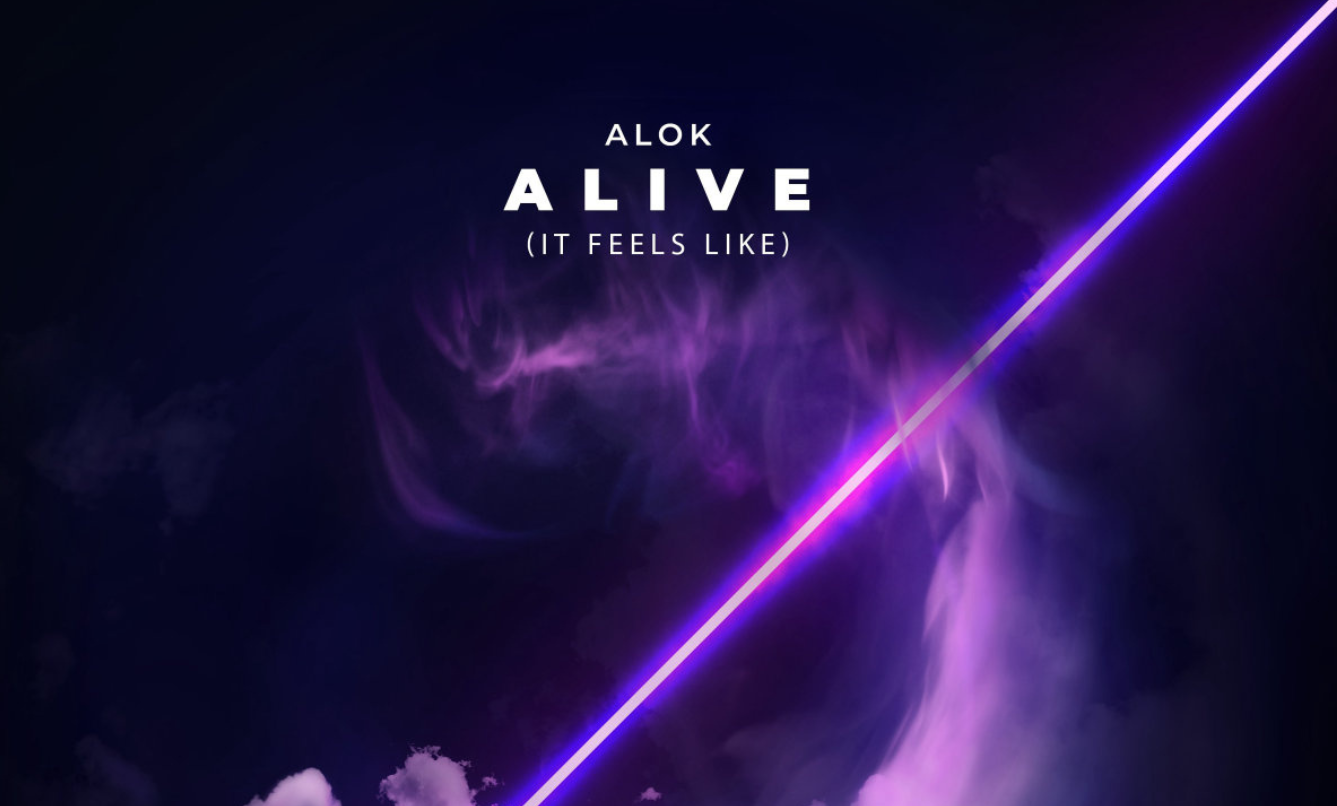
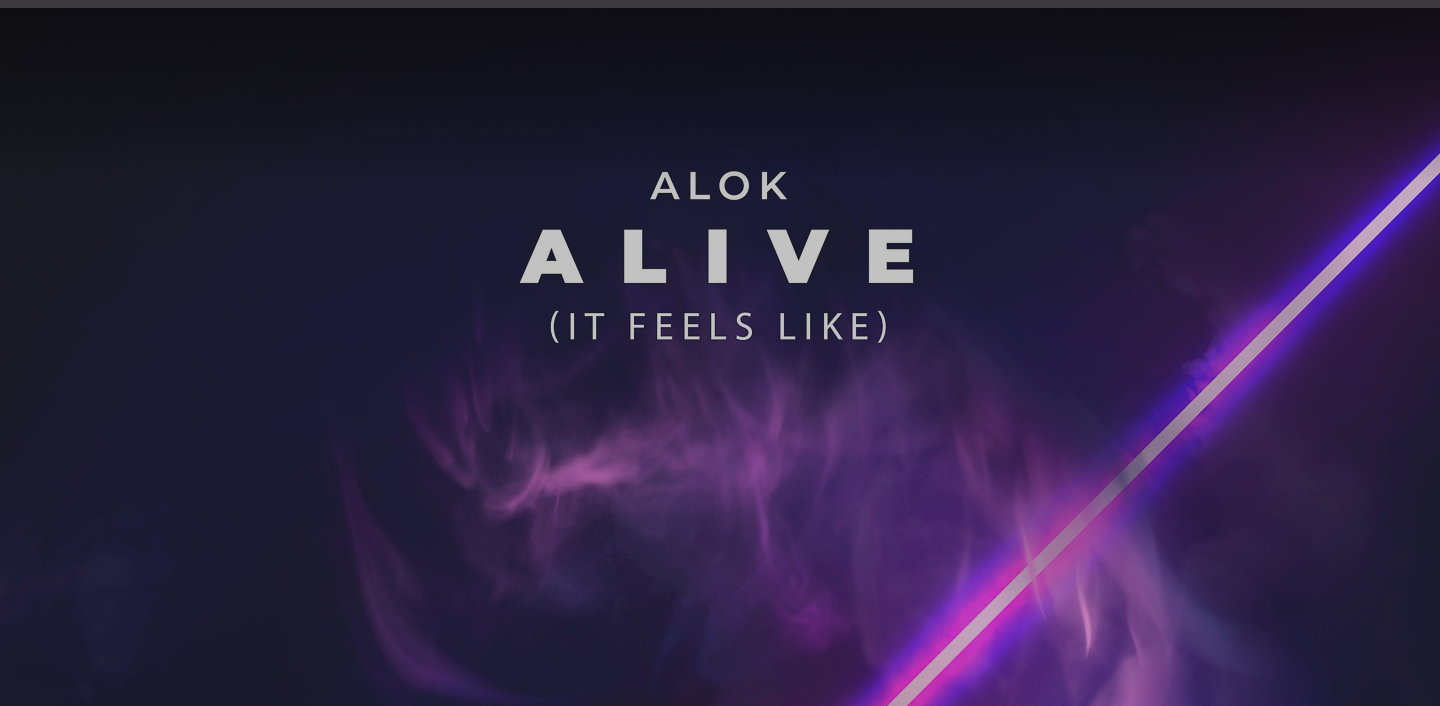
v1.1

diff --git a/Pg-Event/script.js b/Pg-Event/script.js
@@ -1,0 +1,123 @@
+const evento = {
+    titulo: "Alok A live (IT feels like)",
+    descricao: [
+        "Description",
+        "Lorem Ipsum is simply dummy text of the printing and typesetting industry. Lorem Ipsum has been the industry's standard dummy text ever since the 1500s, when an unknown printer took a galley of type and scrambled it to make a type specimen book. It has survived not only five centuries, but also the leap into electronic typesetting, remaining essentially unchanged. It was popularised in the 1960s with the release of Letraset sheets containing Lorem Ipsum passages, and more recently with desktop publishing software like Aldus PageMaker including versions of Lorem Ipsum.",
+        "It is a long established fact that a reader will be distracted by the readable content of a page when looking at its layout. The point of using Lorem Ipsum is that it has a more-or-less normal distribution of letters, as opposed to using Content here, content here, making it look like readable English. Many desktop publishing packages and web page editors now use Lorem Ipsum as their default model text, and a search for 'lorem ipsum' will uncover many web sites still in their infancy. Various versions have evolved over the years, sometimes by accident, sometimes on purpose (injected humour and the like)."
+    ],
+    fotos: [
+        "img/icon-alok.png",
+        "img/icon-alok.png",
+        "img/icon-alok.png",
+        "img/icon-alok.png",
+    ],
+    video: "https://www.youtube.com/embed/fO0uwKqxtBg?si=w_6IiJESXs7iUkoV",
+    data: "27 Mar/2025 — 11:00pm",
+    local: "The Perl Terrace, 46th St, New York, NY",
+    mapa: "https://maps.google.com/maps?q=New York&t=&z=13&ie=UTF8&iwloc=&output=embed",
+    ingressos: [
+        { tipo: "Ticket", preco: "R$ 20" },
+        { tipo: "VIP", preco: "R$ 20" }
+    ],
+    contato: {
+        site: "www.alok.com.br",
+        email: "contato@alok.com.br",
+        telefone: "+55 11 999999999",
+        redes: [
+            { nome: '<i class="fab fa-twitter"></i>', url: "https://twitter.com/alok" },
+            { nome: '<i class="fab fa-instagram"></i>', url: "https://instagram.com/alok" },
+            { nome: '<i class="fab fa-facebook"></i>', url: "https://facebook.com/alok" }
+        ]
+    },
+    categorias: ["Festa eletrônica", "Show"]
+};
+
+function renderMain() {
+    const main = document.getElementById("main-content");
+
+    const descricao = `
+    <div class="card-custom">
+      <h2>${evento.titulo}</h2>
+      ${evento.descricao.map(p => `<p>${p}</p>`).join("")}
+    </div>
+  `;
+
+    const galeria = `
+    <div class="card-custom">
+      <h5>Fotos</h5>
+      <div class="d-flex flex-wrap">
+        ${evento.fotos.map(f => `<img src="${f}" class="gallery-thumb mb-2">`).join("")}
+      </div>
+    </div>
+  `;
+
+    const video = `
+    <div class="card-custom">
+      <h5>Vídeo</h5>
+      <div class="video-container">
+        <iframe src="${evento.video}" frameborder="0" allowfullscreen></iframe>
+      </div>
+    </div>
+  `;
+
+    const contato = `
+    <div class="card-custom">
+      <h5>Contato & Mídias sociais</h5>
+      <p>🌐 ${evento.contato.site}</p>
+      <p>📧 ${evento.contato.email}</p>
+      <p>📞 ${evento.contato.telefone}</p>
+      <div>
+        ${evento.contato.redes.map(r => `<a href="${r.url}" class="text-white mr-2" target="_blank">${r.nome}</a>`).join("")}
+      </div>
+    </div>
+  `;
+
+    const categorias = `
+    <div class="card-custom">
+      ${evento.categorias.map(cat => `<button class="btn btn-outline-light btn-sm mr-2 mb-1">${cat}</button>`).join("")}
+    </div>
+  `;
+
+    main.innerHTML = descricao + galeria + video + contato + categorias;
+}
+
+function renderSidebar() {
+    const side = document.getElementById("sidebar-content");
+
+    const data = `
+    <div class="card-custom">
+      <h6>📅 Data</h6>
+      <p>${evento.data}</p>
+      <button class="btn btn-primary btn-sm">Adicionar ao calendário</button>
+    </div>
+  `;
+
+    const local = `
+    <div class="card-custom">
+      <h6>📍 Local</h6>
+      <p>${evento.local}</p>
+      <iframe src="${evento.mapa}" width="100%" height="200" frameborder="0"></iframe>
+    </div>
+  `;
+
+    const ingressos = `
+    <div class="card-custom">
+      <h6>🎟 Ingressos</h6>
+      ${evento.ingressos.map(i => `<p>${i.tipo}: <strong>${i.preco}</strong></p>`).join("")}
+      <button class="btn btn-purple btn-block">Comprar ingresso</button>
+    </div>
+  `;
+
+    const newsletter = `
+    <div class="card-custom">
+      <h6>📬 Newsletter</h6>
+      <input type="email" class="form-control mb-2" placeholder="Digite seu e-mail">
+      <button class="btn btn-primary btn-block">Inscrever-se</button>
+    </div>
+  `;
+
+    side.innerHTML = data + local + ingressos + newsletter;
+}
+
+renderMain();
+renderSidebar();

diff --git a/Pg-Event/style.css b/Pg-Event/style.css
@@ -1,4 +1,6 @@
-/* HEADER */
+body {
+    background-color: rgba(11, 9, 13, 1);
+}
 
 .site-header {
     width: 100%;
@@ -206,6 +208,10 @@
     color: white;
 }
 
+.btn-purple:hover {
+  background-color: #6a1bbd;
+}
+
 .btn.cyan {
     background: #00bcd4;
     color: white;
@@ -231,7 +237,7 @@
 }
 
 .main-content-section {
-    background-image: url('./img/background-alok.png');
+    background-image: url('./img/alok-background.png');
     background-size: cover;
     background-position: center;
     height: 806px;
@@ -305,4 +311,37 @@
     font-size: 0.9rem;
     opacity: 0.8;
     margin: 0;
+}
+
+.card-custom {
+    background-color: #121212;
+    border: 1px solid #2c2c2c;
+    padding: 20px;
+}
+
+.video-container {
+    position: relative;
+    width: 100%;
+    padding-bottom: 56.25%;
+    height: 0;
+}
+
+.video-container iframe {
+    position: absolute;
+    width: 100%;
+    height: 100%;
+    left: 0;
+    top: 0;
+}
+
+img.gallery-thumb {
+    width: 100px;
+    height: 100px;
+    object-fit: cover;
+    margin-right: 10px;
+    border-radius: 8px;
+}
+
+.dados {
+    background-color: rgba(11, 9, 13, 1);
 }

diff --git a/Pg-Event/index.html b/Pg-Event/index.html
@@ -137,7 +137,7 @@
                 </div>
             </div>
         </div>
-        
+
         <div class="nav2 container-fluid px-0">
             <div class="nav2 d-flex justify-content-between align-items-center navigation-top">
                 <!-- Coluna direita -->
@@ -181,10 +181,17 @@
                 </div>
             </div>
         </div>
-
     </section>
 
 
+    <div class="dados container py-5">
+        <div class="row">
+            <div class="col-lg-8 px-0" id="main-content"></div>
+            <div class="col-lg-4 px-0" id="sidebar-content"></div>
+        </div>
+    </div>
+
+    <script src="./script.js"></script>
     <script src="https://code.jquery.com/jquery-3.3.1.slim.min.js"
         integrity="sha384-q8i/X+965DzO0rT7abK41JStQIAqVgRVzpbzo5smXKp4YfRvH+8abtTE1Pi6jizo"
         crossorigin="anonymous"></script>
